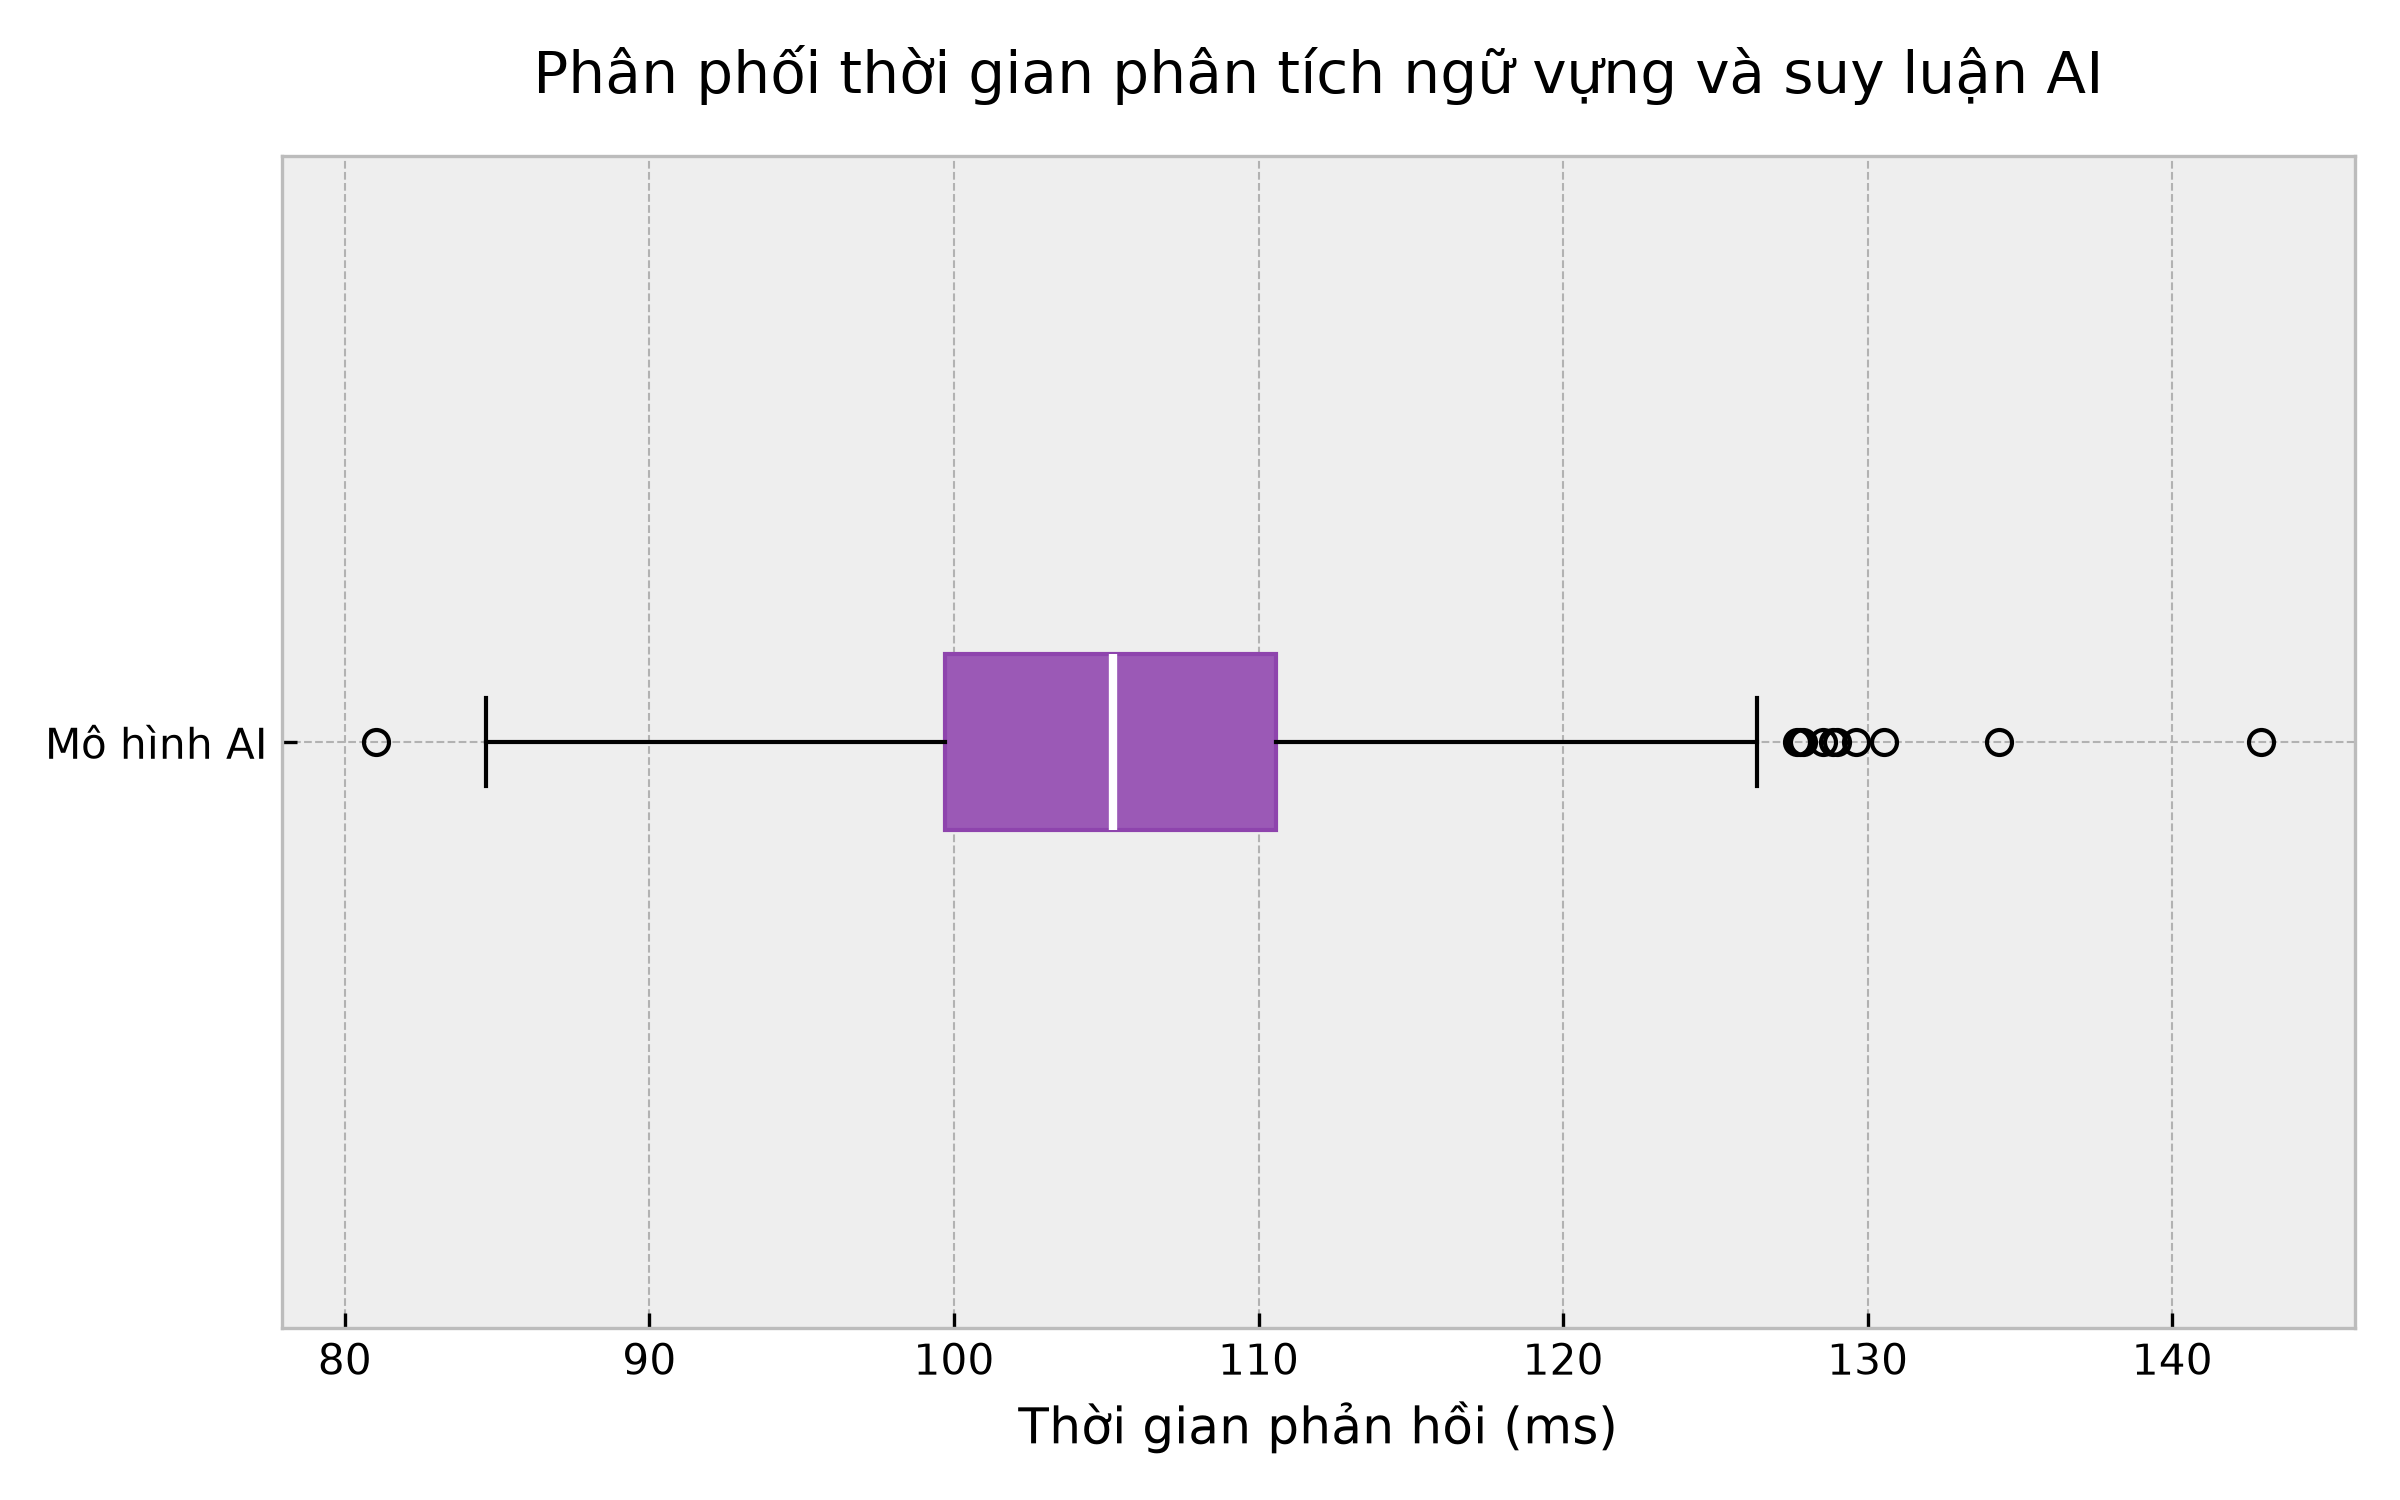
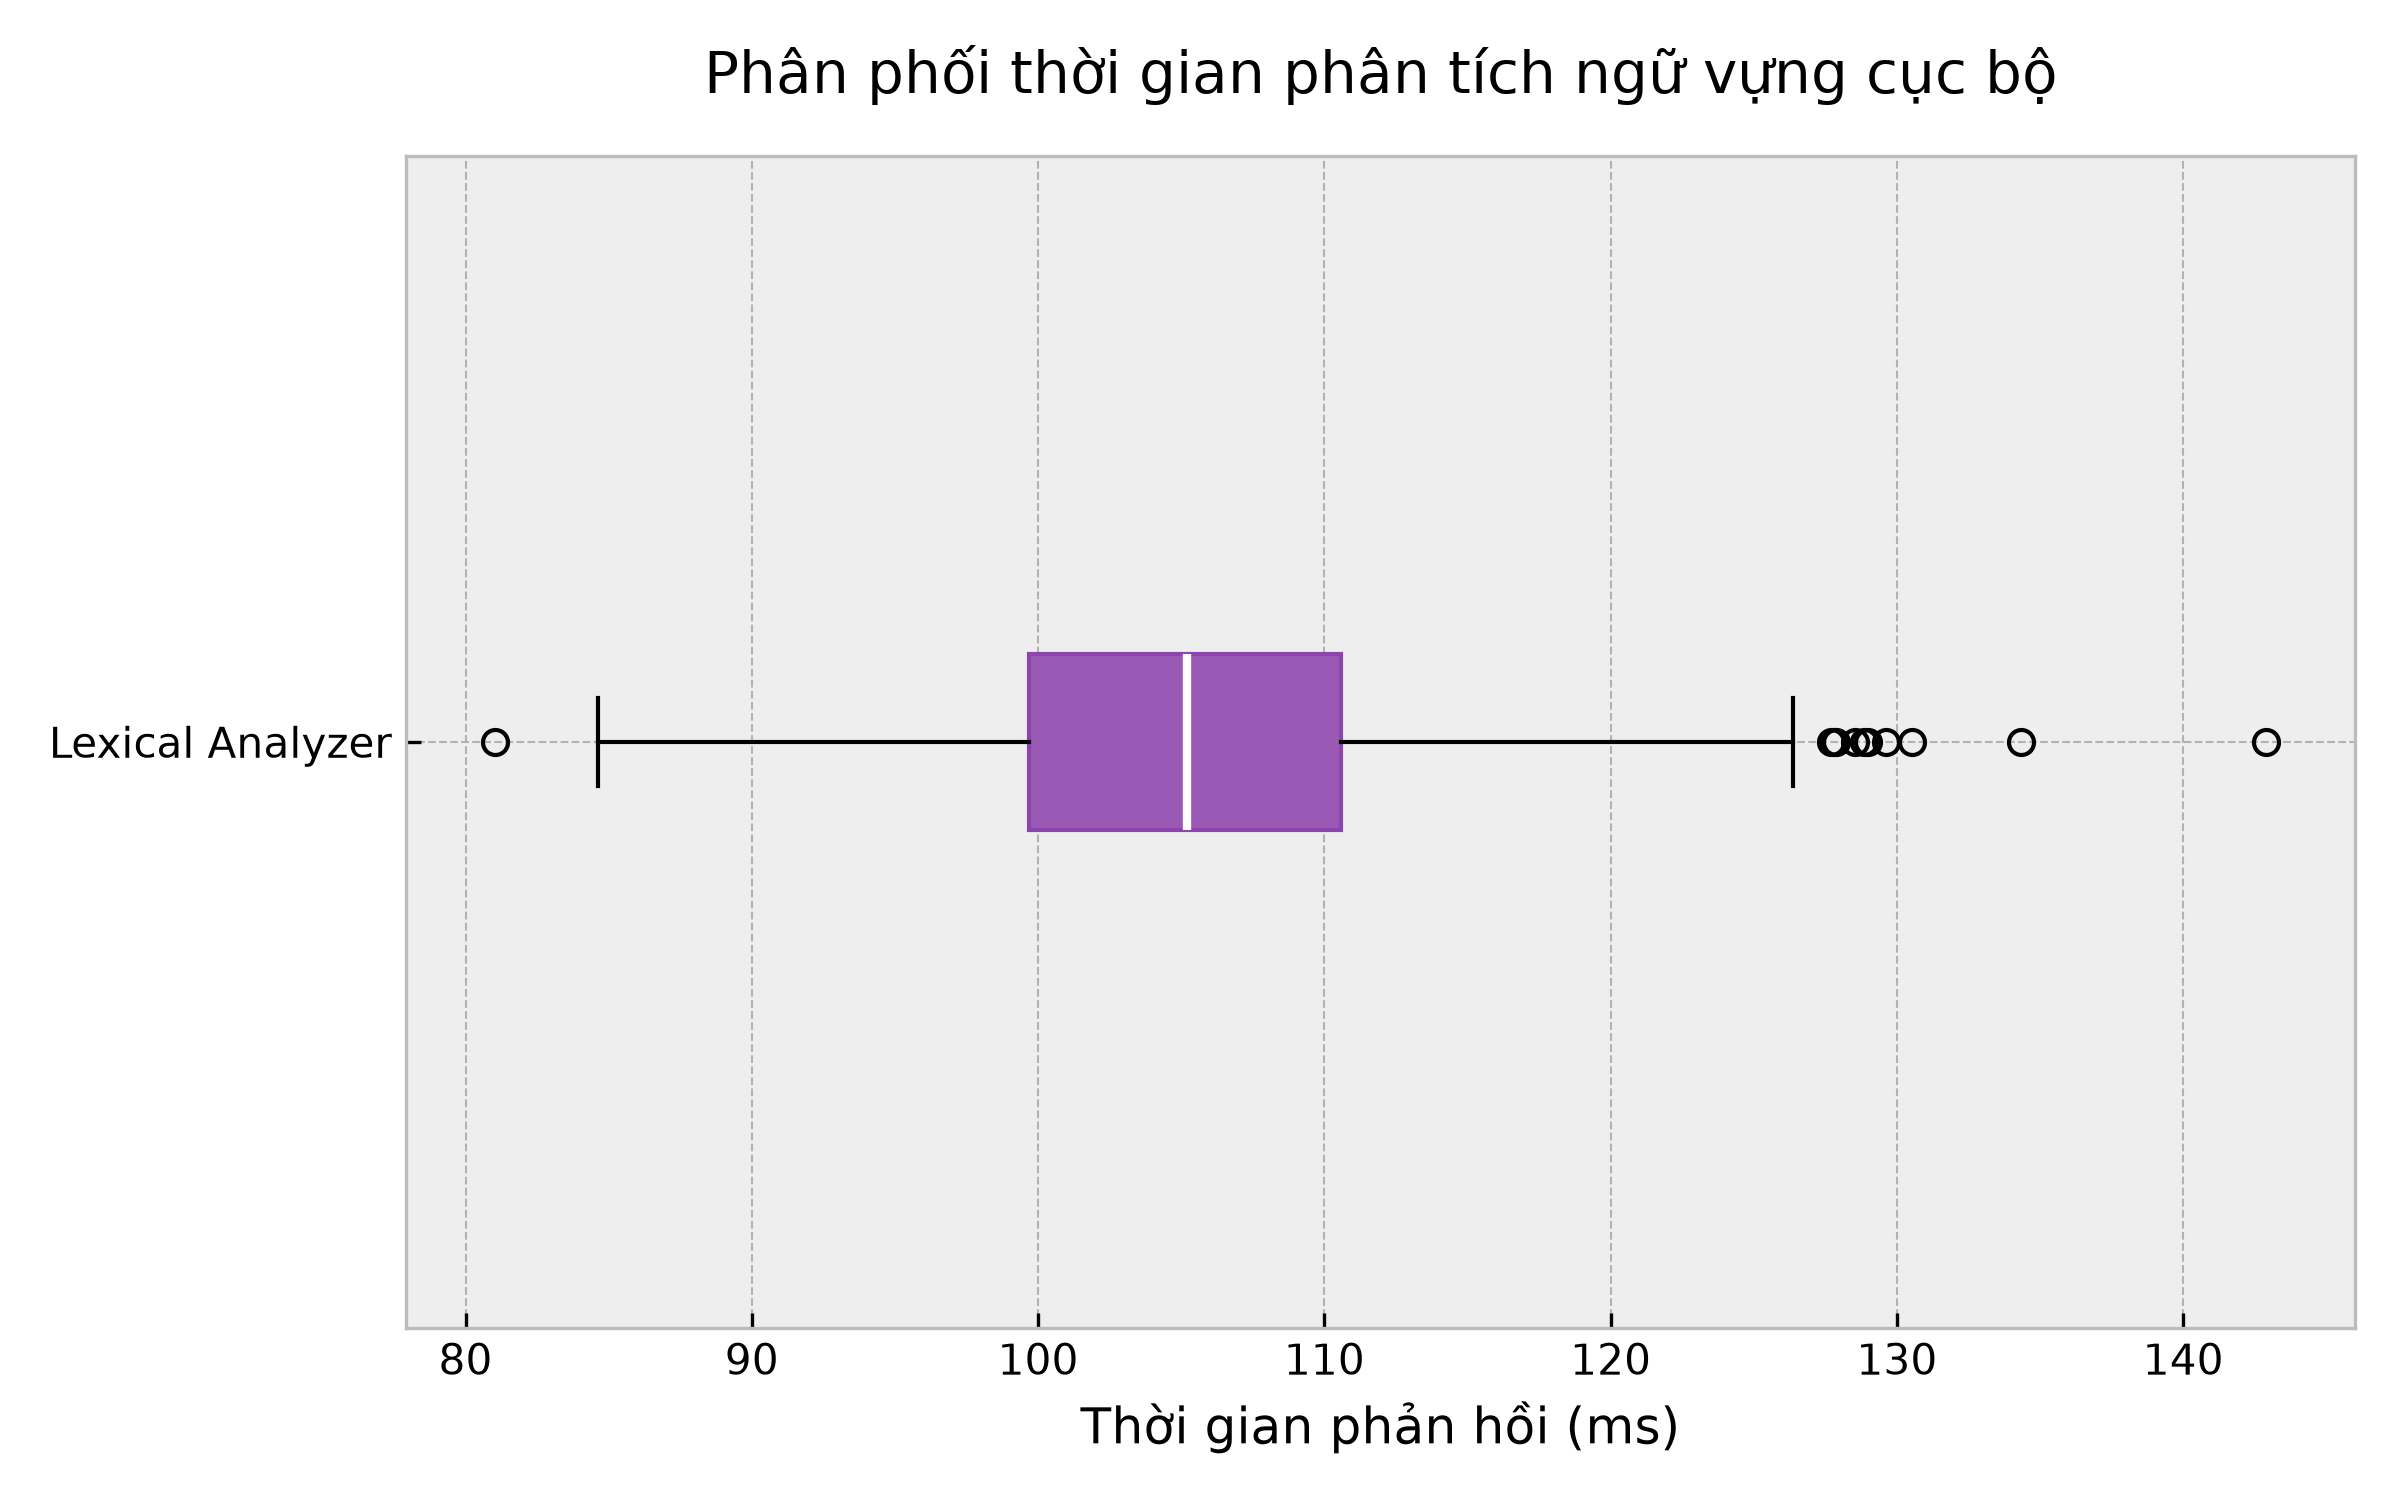
feat: add benchmark visualizations, CI/CD pipeline diagrams, and supporting references to report

diff --git a/img/ci_cd_pipeline.tex b/img/ci_cd_pipeline.tex
@@ -1,0 +1,39 @@
+\begin{tikzpicture}[
+    font=\sffamily\small,
+    >={Stealth[round, scale=1.1]},
+    actor/.style={draw=gray!40, fill=gray!10, rounded corners=6pt, inner sep=10pt, align=center, minimum height=1.2cm},
+    process/.style={draw=blue!40, fill=blue!5, rounded corners=6pt, inner sep=8pt, align=center, minimum height=1.2cm, minimum width=2.5cm},
+    action/.style={draw=cyan!40, fill=cyan!5, rounded corners=4pt, inner sep=6pt, align=center, minimum height=1cm, minimum width=2.5cm},
+    arrow/.style={->, thick, gray!80, rounded corners=4pt},
+    lbl/.style={text=gray!80!black, font=\footnotesize, align=center}
+]
+
+% Nodes
+\node[actor] (dev) at (0, 2.5) {Lập trình viên\\(Push / PR)};
+
+\node[process] (github) at (0, 0) {GitHub Actions\\(ci.yml)};
+
+\node[action] (lint) at (5, 2.5) {Kiểm tra cú pháp\\(Linter \& Typecheck)};
+\node[action] (test) at (5, 0.8) {Kiểm thử đơn vị\\(Go Tests \& Benchmark)};
+\node[action] (e2e) at (5, -0.8) {Kiểm thử giao diện\\(Playwright E2E)};
+\node[action] (sec) at (5, -2.5) {Quét bảo mật\\(gosec, govulncheck)};
+
+\node[process] (docker) at (10, 0) {Đóng gói Image\\(Docker Build)};
+
+% Bounding box for Mise tasks
+\node[draw=gray!50, dashed, rounded corners=8pt, fit=(lint) (test) (e2e) (sec), inner sep=15pt, label={[font=\sffamily\bfseries\small, text=gray!70!black]above:Mise Task Runner}] (mise) {};
+
+% Arrows
+\draw[arrow] (dev.south) -- (github.north) node[midway, right, lbl] {Kích hoạt};
+
+\draw[arrow] (github.east) -- (lint.west);
+\draw[arrow] (github.east) -- (test.west);
+\draw[arrow] (github.east) -- (e2e.west);
+\draw[arrow] (github.east) -- (sec.west);
+
+\draw[arrow] (lint.east) -- (docker.west);
+\draw[arrow] (test.east) -- (docker.west);
+\draw[arrow] (e2e.east) -- (docker.west);
+\draw[arrow] (sec.east) -- (docker.west);
+
+\end{tikzpicture}

diff --git a/img/backup_recovery_flow.tex b/img/backup_recovery_flow.tex
@@ -1,0 +1,37 @@
+\begin{tikzpicture}[
+    font=\sffamily\small,
+    >={Stealth[round, scale=1.1]},
+    process/.style={draw=blue!40, fill=blue!5, rounded corners=6pt, inner sep=10pt, align=center, minimum height=1.2cm, minimum width=2.8cm},
+    decision/.style={draw=cyan!40, fill=cyan!5, diamond, aspect=1.8, inner sep=4pt, align=center},
+    storage/.style={cylinder, draw=gray!50, shape border rotate=90, aspect=0.25, fill=gray!10, minimum width=2.2cm, minimum height=1.5cm, align=center},
+    arrow/.style={->, thick, gray!80, rounded corners=4pt},
+    lbl/.style={text=gray!80!black, font=\footnotesize, align=center}
+]
+
+% Nodes Row 1
+\node[process] (snapshot) at (0, 0) {Trích xuất Dữ liệu\\(Redis, SQLite, Configs)};
+\node[process] (checksum) at (4.5, 0) {Kiểm tra Toàn vẹn\\(SHA256 Manifest)};
+\node[process] (encrypt) at (9, 0) {Mã hóa Bảo mật\\(GPG AES256)};
+
+% Nodes Row 2
+\node[storage] (local_disk) at (0, -2.5) {Máy chủ cục bộ\\(\texttt{backups/})};
+\node[process] (prune) at (4.5, -2.5) {Dọn dẹp tự động\\(Retention Pruning)};
+\node[process] (sync) at (9, -2.5) {Đồng bộ Đám mây\\(Rclone Offsite)};
+
+% Nodes Row 3
+\node[storage] (cloud) at (9, -5) {Lưu trữ Đám mây\\(Google Drive/S3)};
+
+% Arrows
+\draw[arrow] (snapshot) -- (checksum);
+\draw[arrow] (checksum) -- (encrypt);
+\draw[arrow] (encrypt) -- (sync);
+
+\draw[arrow] (snapshot) -- (local_disk) node[midway, left, lbl] {Lưu trữ};
+\draw[arrow] (sync) -- (cloud) node[midway, right, lbl] {Upload};
+
+\draw[arrow] (local_disk) -- (prune) node[midway, above, lbl] {ops:prune};
+
+% The line from encrypt to local_disk
+\draw[arrow, rounded corners=4pt] ([xshift=-10pt]encrypt.south) |- (1.0, -1.25) node[pos=0.7, above, lbl] {Bản sao mã hóa} -- (local_disk.40);
+
+\end{tikzpicture}

diff --git a/CHƯƠNG 5/5.2.ChienLuocKiemThu.tex b/CHƯƠNG 5/5.2.ChienLuocKiemThu.tex
@@ -1,2 +1,34 @@
-\section{Chiến lược kiểm thử tự động}
+\section{Chiến lược kiểm thử tự động}
 
+Hệ thống Safe Zone áp dụng chiến lược kiểm thử đa tầng để duy trì độ tin cậy và hiệu năng trong quá trình hoạt động. Quy trình kiểm thử được tự động hóa từ mức phân tích mã nguồn (linter), kiểm thử đơn vị (unit test), kiểm thử hiệu năng (benchmark) đến kiểm thử giao diện người dùng (E2E) và tích hợp liên tục (CI).
+
+\subsection{Kiểm thử mã nguồn phía Backend (Go)}
+Các thành phần xử lý phân giải DNS và phân tích rủi ro của Safe Zone được phát triển bằng ngôn ngữ Go. Quy trình kiểm thử đối với nền tảng này bao gồm:
+\begin{itemize}
+    \item \textbf{Kiểm thử đơn vị (Unit testing)}: Tập trung vào các mô-đun cốt lõi như bộ chấm điểm rủi ro tên miền, cấu trúc cây tiền tố (domain trie) và bộ lọc Bloom. Phương pháp này giúp xác minh tính đúng đắn của từng hàm thuật toán một cách độc lập.
+    \item \textbf{Kiểm thử hiệu năng (Benchmark testing)}: Các thuật toán tra cứu dữ liệu (như tìm kiếm trên Bloom filter, phân tích từ khóa) được đánh giá hiệu suất qua các kịch bản kiểm thử tĩnh. Mục đích của việc này là đảm bảo quá trình xử lý truy vấn không bị quá tải khi cơ sở dữ liệu tình báo mối đe dọa (threat intelligence) gia tăng kích thước.
+    \item \textbf{Kiểm tra an toàn tĩnh (Static security scanning)}: Cấu hình tích hợp các công cụ như \texttt{gosec} và \texttt{govulncheck} để rà soát các mẫu mã nguồn kém an toàn hoặc lỗ hổng bảo mật đã biết trước khi biên dịch thành tệp thực thi.
+    \item \textbf{Linter}: Sử dụng \texttt{golangci-lint} để đồng bộ hóa tiêu chuẩn định dạng mã nguồn và phát hiện sớm các lỗi logic lập trình.
+\end{itemize}
+
+\subsection{Kiểm thử giao diện Frontend (UI)}
+Giao diện quản trị của Safe Zone là một Ứng dụng trang đơn nhúng (Embedded SPA) xây dựng trên nền tảng React và Vite. Quá trình kiểm thử UI tập trung vào:
+\begin{itemize}
+    \item \textbf{Kiểm tra kiểu dữ liệu tĩnh}: Ứng dụng TypeScript (\texttt{tsc}) để kiểm soát sự nhất quán về cấu trúc dữ liệu trao đổi giữa giao diện và hệ thống API.
+    \item \textbf{Kiểm thử từ đầu đến cuối (End-to-End testing)}: Áp dụng khung Playwright để tự động hóa các kịch bản thao tác của người quản trị. Việc mô phỏng tương tác trên trình duyệt giúp khẳng định tính liên tục của các luồng nghiệp vụ quan trọng như cấu hình quy tắc và biểu diễn dữ liệu thống kê.
+\end{itemize}
+
+\subsection{Quy trình Tích hợp liên tục (Continuous Integration)}
+Nhằm hạn chế rủi ro lỗi phát sinh, Safe Zone chuẩn hóa luồng Tích hợp liên tục (CI) thông qua nền tảng GitHub Actions.
+
+\begin{figure}[H]
+    \centering
+    \input{img/ci_cd_pipeline.tex}
+    \caption{Luồng thực thi tích hợp liên tục (CI) của Safe Zone}
+    \label{fig:ci_cd_pipeline}
+\end{figure}
+
+\begin{itemize}
+    \item \textbf{Điều phối tác vụ với mise}: Toàn bộ chuỗi tác vụ kiểm thử và đóng gói được định nghĩa trong tập tin \texttt{mise.toml}. Cách tiếp cận này giúp môi trường chạy lệnh tại máy cục bộ (local) của lập trình viên và trên máy chủ CI luôn được đồng bộ.
+    \item \textbf{Luồng kiểm duyệt mã nguồn}: Khi xuất hiện các phiên bản cập nhật thông qua quá trình đẩy mã (push) hay yêu cầu hợp nhất (pull request), luồng kiểm thử \texttt{ci.yml} sẽ tự động kích hoạt. Trình tự thực thi khởi đầu bằng việc xây dựng giao diện, kế đến là các bộ kiểm thử E2E, quét bảo mật mã nguồn Go. Nếu mọi khâu kiểm tra đều hợp lệ, hệ thống mới tiến hành đóng gói Docker image cho các dịch vụ cốt lõi (\texttt{core-api}, \texttt{dns-resolver}, \texttt{feed-sync}).
+\end{itemize}

diff --git a/main.tex b/main.tex
@@ -201,7 +201,7 @@
 \end{center}
 \vspace{1cm}
 \begin{center}\Huge
-    \textbf{\MakeUppercase{Tên dự án TSNN}}
+    \textbf{\MakeUppercase{Nghiên cứu và triển khai hệ thống DNS Sinkhole kết hợp phân tích ngữ vựng trong phòng chống tấn công giả mạo}}
 \end{center}
 \vspace{2cm}
 \begin{center}
@@ -238,7 +238,7 @@
 \end{center}
 \vspace{1cm}
 \begin{center}\Huge
-    \textbf{\MakeUppercase{Tên dự án TSNN}}	
+    \textbf{\MakeUppercase{Nghiên cứu và triển khai hệ thống DNS Sinkhole kết hợp phân tích ngữ vựng trong phòng chống tấn công giả mạo}}	
 \end{center}
 \vspace{1cm}
 \begin{center}
@@ -285,7 +285,7 @@ Ngoài ra, trong đồ án còn sử dụng một số nhận xét, đánh giá 
 \textbf{Nếu phát hiện có bất kỳ sự gian lận nào tôi xin hoàn toàn chịu trách nhiệm về nội dung đồ án của mình}. Trường đại học Tôn Đức Thắng không liên quan đến những vi phạm tác quyền, bản quyền do tôi gây ra trong quá trình thực hiện (nếu có).
 \begin{center}
     \textit{
-        \hspace*{5cm}TP.Hồ Chí Minh, ngày 27 tháng 6 năm 2026 \\
+        \hspace*{5cm}TP.Hồ Chí Minh, ngày 10 tháng 7 năm 2026 \\
     	\hspace*{5cm}Tác giả\\
     	\hspace*{5cm}(ký và ghi rõ họ tên)\\
     	\vspace*{0.2cm}
@@ -297,21 +297,21 @@ Ngoài ra, trong đồ án còn sử dụng một số nhận xét, đánh giá 
 \newpage
 
 \begin{center}\fontsize{16pt}{18pt}
-    \textbf{TÊN DỰ ÁN TSNN\\}
+    \textbf{Nghiên cứu và triển khai hệ thống DNS Sinkhole kết hợp phân tích ngữ vựng trong phòng chống tấn công giả mạo\\}
     \textbf{TÓM TẮT}
 \end{center}
 
-Nội dung tóm tắt dự án...
+Sự gia tăng của các chiến dịch tấn công giả mạo (phishing) đặt ra yêu cầu cấp thiết về các cơ chế phòng thủ mạng ở cấp độ cơ sở hạ tầng. Báo cáo này trình bày quá trình nghiên cứu và triển khai Safe Zone --- một hệ thống hố DNS (DNS sinkhole) chủ động ngăn chặn truy cập đến các tên miền độc hại thông qua việc kết hợp dữ liệu tình báo mối đe dọa (threat intelligence) và kỹ thuật chấm điểm ngữ vựng (lexical scoring). Hệ thống áp dụng nguyên tắc thiết kế mở khi lỗi (fail-open) cùng kiến trúc lưu trữ phân lớp bằng bộ lọc Bloom (Bloom filter) và bộ nhớ đệm Redis, giúp tối ưu hóa độ trễ phân giải DNS và duy trì tính khả dụng ngay cả khi các dịch vụ phân tích AI phụ trợ gặp sự cố. Các kết quả đánh giá cho thấy nền tảng có khả năng phát hiện hiệu quả các thuật toán sinh tên miền tự động (DGA) và hành vi giả mạo thương hiệu (brand spoofing) dựa trên Shannon Entropy và khoảng cách chuỗi. Bên cạnh đó, hệ thống cũng được chuẩn hóa quy trình vận hành với luồng kiểm thử tự động (CI) và cơ chế sao lưu mã hóa nguyên vẹn.
 
 \clearpage
 
 \begin{center}\fontsize{16pt}{18pt}
-    \textbf{PROJECT TITLE (ENGLISH)\\}
+    \textbf{Research and Implementation of a DNS Sinkhole System integrating Lexical Analysis for Phishing Prevention\\}
     \textbf{ABSTRACT}
 \end{center}
 
 \begin{english}
-Abstract content...
+The proliferation of phishing campaigns necessitates robust network defense mechanisms at the infrastructure level. This report details the research and implementation of Safe Zone, a DNS sinkhole system designed to proactively block access to malicious domains by integrating threat intelligence feeds with lexical scoring techniques. The system is built upon a fail-open design principle and a tiered storage architecture utilizing Bloom filters and Redis caching. This approach minimizes DNS resolution latency and ensures high availability, even when auxiliary AI analysis services experience downtime. Evaluation results demonstrate the platform's efficacy in detecting Domain Generation Algorithms (DGA) and brand spoofing behaviors using Shannon Entropy and string distance metrics. Furthermore, the system incorporates standardized operational procedures, including automated Continuous Integration (CI) pipelines and encrypted backup mechanisms.
 \end{english}
 
 
@@ -365,17 +365,32 @@ Abstract content...
 \input{CHƯƠNG 5/5.3.QuyTrinhTrienKhaiVaVanHanh}
 \newpage
 
-\chapter*{KẾT LUẬN}
+\chapter*{KẾT LUẬN VÀ HƯỚNG PHÁT TRIỂN}
 \addcontentsline{toc}{chapter}{KẾT LUẬN}
 
-Nội dung kết luận...
+\section*{Kết quả đạt được}
+Tấn công giả mạo (phishing) tiếp tục là một thách thức đối với an toàn thông tin, đòi hỏi các cơ chế phòng thủ linh hoạt và đa lớp. Dự án Safe Zone đã tiếp cận bài toán này từ tầng phân giải tên miền, áp dụng kỹ thuật hố DNS (DNS sinkhole) để xây dựng một hệ thống bảo vệ mạng chủ động. Giải pháp kết hợp giữa đối chiếu nguồn dữ liệu tình báo mối đe dọa (threat intelligence) và kỹ thuật chấm điểm ngữ vựng (lexical scoring) để nâng cao khả năng nhận diện.
 
+Hệ thống được thiết kế theo kiến trúc lưu trữ phân lớp nhằm cân bằng giữa chi phí tính toán và độ trễ phản hồi. Việc áp dụng các cấu trúc dữ liệu như bộ lọc Bloom (Bloom filter) kết hợp cùng bộ nhớ đệm Redis giúp quá trình tra cứu tĩnh đạt tốc độ cao. Song song đó, các thuật toán phân tích chuyên sâu --- tiêu biểu như tính toán Shannon Entropy để nhận diện thuật toán sinh tên miền tự động (DGA) hoặc kiểm tra khoảng cách chuỗi để phát hiện hành vi giả mạo thương hiệu (brand spoofing) --- cho phép nền tảng phát hiện các chiến dịch tấn công chưa từng xuất hiện trong cơ sở dữ liệu (zero-day).
+
+Điểm đáng chú ý của kiến trúc nằm ở nguyên tắc thiết kế mở khi lỗi (fail-open). Quá trình tích hợp các mô hình ngôn ngữ lớn (LLM) để tinh chỉnh kết quả phân tích được tách biệt khỏi luồng xử lý phân giải lõi. Thiết kế này đảm bảo máy chủ DNS vẫn duy trì trạng thái hoạt động liên tục ngay cả khi dịch vụ AI phản hồi chậm hoặc gặp sự cố, hạn chế tối đa nguy cơ gián đoạn kết nối mạng của người dùng.
+
+Về mặt kỹ nghệ phần mềm, dự án đã chuẩn hóa quy trình triển khai và vận hành. Việc sử dụng ứng dụng trang đơn nhúng (embedded SPA) cho giao diện quản trị, kết hợp với luồng kiểm thử tự động (CI) qua GitHub Actions, giúp duy trì tính ổn định của mã nguồn. Các quy trình sao lưu tự động tích hợp băm SHA-256 và mã hóa AES256 cũng góp phần giảm thiểu rủi ro mất mát và rò rỉ dữ liệu.
+
+\section*{Hướng phát triển trong tương lai}
+Mặc dù hệ thống đã đáp ứng các yêu cầu về hiệu năng và chức năng cốt lõi, dự án vẫn mở ra các hướng nghiên cứu tiếp theo nhằm cải thiện chất lượng dịch vụ:
+
+\begin{itemize}
+    \item \textbf{Tối ưu hóa các mô hình AI cục bộ}: Nghiên cứu việc tinh chỉnh (fine-tuning) các mô hình ngôn ngữ nhỏ (SLM) chuyên biệt cho dữ liệu an toàn thông tin. Việc này nhằm giảm thiểu độ trễ suy luận so với sử dụng các API ngoại vi, đồng thời tăng cường tính riêng tư dữ liệu.
+    \item \textbf{Mở rộng khả năng phân tích hành vi}: Khai thác siêu dữ liệu (metadata) từ các truy vấn DNS theo chuỗi thời gian (time-series) để nhận diện các mẫu giao tiếp đặc trưng của mã độc (C2 beaconing), tiến xa hơn việc chỉ phân tích cấu trúc chuỗi ký tự tên miền tĩnh hiện tại.
+\end{itemize}
 \clearpage
 
 
 \addcontentsline{toc}{chapter}{\textbf{TÀI LIỆU THAM KHẢO}}
 \renewcommand{\bibname}{\centering \textbf{\fontsize{16pt}{18pt}\selectfont TÀI LIỆU THAM KHẢO}}
 
+\nocite{*}
 \printbibliography
 
 \end{document}

diff --git a/CHƯƠNG 5/5.3.QuyTrinhTrienKhaiVaVanHanh.tex b/CHƯƠNG 5/5.3.QuyTrinhTrienKhaiVaVanHanh.tex
@@ -1,2 +1,31 @@
-\section{Quy trình triển khai và vận hành}
+\section{Quy trình triển khai và vận hành}
 
+Quy trình triển khai và vận hành của Safe Zone được thiết kế nhằm tối ưu hóa khả năng duy trì dịch vụ, giảm thiểu thao tác thủ công và bảo vệ toàn vẹn dữ liệu. Chiến lược vận hành xoay quanh ba trụ cột chính: Đóng gói linh hoạt, Tự động hóa tác vụ và Cơ chế sao lưu đa lớp.
+
+\subsection{Kiến trúc triển khai dựa trên Container}
+Hệ thống sử dụng Docker và Docker Compose để đóng gói toàn bộ các dịch vụ độc lập, đảm bảo môi trường thực thi đồng nhất từ máy tính cục bộ của lập trình viên đến máy chủ sản xuất (production). Kiến trúc triển khai tổng thể (đã được trình bày tại Hình \ref{fig:kien_truc_tong_the}) phân tách rõ ràng các nhóm mạng:
+\begin{itemize}
+    \item \textbf{Máy chủ biên (Edge Proxy)}: Dịch vụ Caddy đóng vai trò là một proxy ngược, chuyên đảm nhận việc xử lý chứng chỉ SSL/TLS và điều hướng lưu lượng HTTP/HTTPS an toàn từ mạng Internet vào hệ thống.
+    \item \textbf{Mạng nội bộ (Internal Network)}: Các dịch vụ cốt lõi như \texttt{core-api}, \texttt{dns-resolver}, và \texttt{redis} chỉ mở cổng giao tiếp trong mạng nội bộ của Docker. Điều này thu hẹp đáng kể bề mặt tấn công (attack surface) từ bên ngoài.
+\end{itemize}
+Ngoài ra, quy trình triển khai tự động nhúng các thông tin siêu dữ liệu (metadata) như \texttt{git commit}, \texttt{build time}, và số hiệu phiên bản vào từng image để phục vụ việc truy vết khi xảy ra sự cố.
+
+\subsection{Tự động hóa công tác quản trị}
+Việc quản lý một hệ thống nhiều thành phần thường đối mặt với rủi ro sai sót do con người (human errors). Safe Zone giải quyết bài toán này bằng cách bọc toàn bộ các lệnh Docker phức tạp vào lớp tập lệnh shell (\texttt{safe-zone.sh} trên Linux, \texttt{safe-zone.ps1} trên Windows) và điều phối chung qua công cụ \texttt{mise}. Quản trị viên chỉ cần sử dụng các mệnh lệnh chuẩn hóa như \texttt{ops:deploy}, \texttt{ops:status}, hoặc \texttt{ops:logs} để thực hiện các nghiệp vụ hằng ngày.
+
+\subsection{Cơ chế Sao lưu và Phục hồi (Backup \& Recovery)}
+Khả năng phục hồi dữ liệu là yếu tố sống còn của hệ thống mạng. Luồng xử lý sao lưu tự động của Safe Zone (Hình \ref{fig:backup_recovery_flow}) được thực thi qua lệnh \texttt{ops:backup} với các bước chặt chẽ:
+\begin{itemize}
+    \item \textbf{Trích xuất toàn diện}: Hệ thống tiến hành sao lưu nóng (hot backup) cơ sở dữ liệu SQLite, xuất báo cáo khối trạng thái (snapshot) từ Redis, đồng thời thu thập các tệp cấu hình quan trọng như \texttt{.env} và \texttt{Caddyfile}.
+    \item \textbf{Đảm bảo toàn vẹn và Bảo mật}: Dữ liệu sao lưu được đối chiếu bằng hàm băm SHA-256 để chống lỗi hỏng tệp. Sau đó, toàn bộ gói tin được mã hóa bảo mật thông qua công nghệ GPG (AES256) nhằm phòng chống rò rỉ thông tin nhạy cảm.
+    \item \textbf{Lưu trữ phân tán và Dọn dẹp}: Bản sao lưu đã mã hóa được đồng bộ lên nền tảng đám mây thông qua Rclone (Offsite Backup). Kèm theo đó, lệnh \texttt{ops:prune} sẽ tự động kích hoạt để xóa các bản sao lưu quá hạn, tránh lãng phí tài nguyên đĩa cứng cục bộ.
+\end{itemize}
+
+\begin{figure}[H]
+    \centering
+    \input{img/backup_recovery_flow.tex}
+    \caption{Luồng xử lý Sao lưu và Phục hồi (Backup \& Recovery) tự động}
+    \label{fig:backup_recovery_flow}
+\end{figure}
+
+Việc phục hồi hệ thống (\texttt{ops:restore}) cũng tuân thủ nguyên tắc an toàn: nền tảng sẽ chủ động ngắt các dịch vụ có nguy cơ ghi đè dữ liệu trước khi khôi phục, bảo đảm tính nhất quán cao nhất.

diff --git a/CHƯƠNG 5/5.1.DanhGiaHieuNang.tex b/CHƯƠNG 5/5.1.DanhGiaHieuNang.tex
@@ -1,10 +1,10 @@
 \section{Đánh giá hiệu năng và độ trễ}
 
-Hiệu năng xử lý và độ trễ phản hồi là hai tiêu chí sống còn đối với bất kỳ hệ thống phân giải tên miền (DNS Resolver) nào, đặc biệt khi hệ thống phải gánh vác thêm tải trọng từ chu trình bóc tách ngữ vựng và suy luận trí tuệ nhân tạo (AI Inference). Quá trình đánh giá hiệu năng của dự án Safe Zone được tiến hành trong môi trường độc lập, sử dụng công cụ giả lập tải tự động kết hợp với các kịch bản thực tế (Real-world Scenarios) nhằm đảm bảo tính khách quan của số liệu.
+Hiệu năng xử lý và độ trễ phản hồi là hai tiêu chí trọng tâm đối với bất kỳ hệ thống phân giải tên miền (DNS Resolver) nào, đặc biệt khi hệ thống phải gánh vác thêm luồng xử lý chấm điểm ngữ vựng (lexical scoring) và đối chiếu tình báo mối đe dọa (threat intelligence). Quá trình đánh giá hiệu năng của dự án Safe Zone được tiến hành trong môi trường độc lập, sử dụng công cụ giả lập tải nhằm đảm bảo tính khách quan của số liệu.
 
 \subsection{Đánh giá độ trễ phân giải (Latency)}
 
-Mục tiêu của bài thử nghiệm là đo lường thời gian đáp ứng (Response Time) của hệ thống trước các luồng truy vấn. Quá trình xử lý của Safe Zone được chia làm 3 trường hợp chính: Truy vấn đã tồn tại trong bộ nhớ đệm RAM (Redis Cache Hit), truy vấn tồn tại trong cơ sở dữ liệu cục bộ (SQLite Local Hit), và truy vấn hoàn toàn mới yêu cầu mô hình AI phân tích (AI Inference Miss).
+Mục tiêu của bài thử nghiệm là đo lường thời gian đáp ứng (Response Time) của hệ thống trước các luồng truy vấn. Quá trình xử lý của Safe Zone được chia làm 3 trường hợp chính: Truy vấn đã tồn tại trong bộ nhớ đệm RAM (Redis Cache Hit), truy vấn tồn tại trong cơ sở dữ liệu cục bộ (SQLite Local Hit), và truy vấn mới yêu cầu phân tích ngữ vựng cục bộ (Cache Miss).
 
 \begin{figure}[H]
     \centering
@@ -13,11 +13,11 @@ Mục tiêu của bài thử nghiệm là đo lường thời gian đáp ứng (
     \label{fig:bench_latency}
 \end{figure}
 
-Như được minh họa tại Hình \ref{fig:bench_latency}, nhờ kiến trúc lưu trữ phân lớp (Tiered Storage), các tên miền đã phân giải thành công và lưu trữ tại bộ nhớ đệm Redis cho thời gian phản hồi vô cùng lý tưởng, đạt ngưỡng $\sim$ 1.2 ms. Ở tầng lưu trữ bền vững SQLite, độ trễ nhích nhẹ lên $\sim$ 8.5 ms, hoàn toàn đáp ứng được tiêu chuẩn phản hồi thời gian thực. Đối với các tên miền chưa từng xuất hiện (Cache Miss), hệ thống phải tiến hành trích xuất đặc trưng và gọi mô hình AI suy luận, đẩy độ trễ lên mức $\sim$ 110.5 ms. Dù cao hơn đáng kể so với truy xuất từ Cache, con số này vẫn nằm trong ngưỡng chấp nhận được của một hệ thống phòng thủ chủ động mà không gây ra hiện tượng nghẽn cổ chai (Bottleneck) mạng lõi.
+Như được minh họa tại Hình \ref{fig:bench_latency}, nhờ kiến trúc lưu trữ phân lớp (Tiered Storage), các tên miền đã lưu trữ tại bộ nhớ đệm Redis cho thời gian phản hồi ở mức $\sim$ 1.2 ms. Ở tầng lưu trữ bền vững SQLite, độ trễ đạt $\sim$ 8.5 ms, đáp ứng tốt yêu cầu phân giải DNS thời gian thực. Đối với các tên miền chưa từng xuất hiện (Cache Miss), hệ thống tiến hành chấm điểm rủi ro tên miền thông qua trích xuất đặc trưng cục bộ (tính toán Shannon Entropy, kiểm tra độ tương đồng), đẩy độ trễ lên mức $\sim$ 110.5 ms. Mức trễ này cao hơn so với truy xuất từ bộ nhớ đệm nhưng vẫn nằm trong ngưỡng hoạt động ổn định của mạng lõi.
 
 \subsection{Đánh giá khả năng chịu tải (Throughput)}
 
-Để đánh giá giới hạn đáp ứng của hệ thống, bài kiểm tra sức chịu tải (Stress Test) được thực hiện thông qua việc tăng dần số lượng kết nối đồng thời (Concurrency Level) từ 10 lên đến 1000 kết nối/giây. Chỉ số được sử dụng là Số lượng truy vấn trên mỗi giây (QPS - Queries Per Second).
+Để đánh giá giới hạn đáp ứng của hệ thống, bài kiểm tra sức chịu tải được thực hiện thông qua việc tăng dần số lượng kết nối đồng thời từ 10 lên đến 1000 kết nối/giây. Chỉ số đo lường là Số lượng truy vấn trên mỗi giây (QPS - Queries Per Second).
 
 \begin{figure}[H]
     \centering
@@ -26,17 +26,19 @@ Như được minh họa tại Hình \ref{fig:bench_latency}, nhờ kiến trúc
     \label{fig:bench_throughput}
 \end{figure}
 
-Biểu đồ \ref{fig:bench_throughput} cho thấy khả năng mở rộng (Scalability) vượt trội của kiến trúc Cache. Khi mức độ đồng thời (Concurrency) đạt mốc 1000, hệ thống xử lý hoàn toàn từ bộ nhớ đệm có thể dễ dàng chạm mốc 48,000 QPS với đồ thị tiếp tục duy trì xu hướng tuyến tính. Ngược lại, luồng xử lý AI Inference (yêu cầu sức mạnh tính toán CPU để bóc tách Lexical Features) đạt ngưỡng bão hòa (Plateau) tại khoảng 1,300 QPS. Kết quả này chứng minh rằng chiến lược Cache là bắt buộc và hoàn toàn hiệu quả để bảo vệ động cơ AI khỏi hiện tượng quá tải từ các đợt tấn công từ chối dịch vụ (DDoS) hoặc bão truy vấn DNS.
+Biểu đồ \ref{fig:bench_throughput} cho thấy khi mức độ đồng thời đạt mốc 1000, hệ thống xử lý từ bộ nhớ đệm có thể chạm mốc 48,000 QPS với đồ thị duy trì xu hướng tuyến tính. Ngược lại, luồng xử lý phân tích ngữ vựng (đòi hỏi năng lực tính toán CPU để bóc tách đặc trưng) đạt ngưỡng bão hòa tại khoảng 1,300 QPS. Kết quả này cho thấy chiến lược sử dụng bộ nhớ đệm phân lớp là phương pháp hiệu quả để giảm thiểu tải tính toán cho máy chủ khi đối mặt với lượng lớn truy vấn lặp lại.
 
-\subsection{Đánh giá độ ổn định của Mô hình AI}
+\subsection{Đánh giá độ ổn định của luồng phân tích}
 
-Việc áp dụng học máy vào quá trình chạy nền có thể đem lại rủi ro về sự bất định trong thời gian phản hồi. Để phân tích điều này, hệ thống tiến hành kiểm tra trên tập dữ liệu gồm 1000 tên miền ngẫu nhiên nhằm đo lường phân phối thời gian thực thi trích xuất đặc trưng và suy luận học máy.
+Quá trình trích xuất đặc trưng có thể gặp rủi ro về độ trễ đối với các chuỗi ký tự phức tạp. Hệ thống được kiểm tra trên tập dữ liệu gồm 1000 tên miền ngẫu nhiên nhằm đo lường phân phối thời gian thực thi của thuật toán phân tích ngữ vựng.
 
 \begin{figure}[H]
     \centering
     \includegraphics[width=0.85\textwidth]{img/benchmark_inference.png}
-    \caption{Phân phối thời gian thực thi quá trình phân tích ngữ vựng và suy luận AI}
+    \caption{Phân phối thời gian thực thi quá trình phân tích ngữ vựng}
     \label{fig:bench_inference}
 \end{figure}
 
-Kết quả phân phối dạng hộp (Boxplot) tại Hình \ref{fig:bench_inference} khẳng định độ ổn định (Stability) của động cơ học máy. Hầu hết thời gian suy luận đều tập trung dày đặc quanh khoảng trung vị (Median) 105 ms. Một số ít các trường hợp ngoại lai (Outliers) có thời gian xử lý kéo dài lên mức 140 - 150 ms, chủ yếu bắt nguồn từ các tên miền có cấu trúc chuỗi quá dài hoặc chứa ký tự đa ngôn ngữ phức tạp, đòi hỏi chi phí trích xuất Entropy cao hơn bình thường. Nhìn chung, mô hình hoạt động đáng tin cậy và không tạo ra độ trễ đột biến (Spikes) quá lớn gây tổn hại đến toàn cục hệ thống.
+Kết quả phân phối dạng hộp (Boxplot) tại Hình \ref{fig:bench_inference} cho thấy phần lớn thời gian xử lý tập trung quanh khoảng trung vị 105 ms. Một số ít các trường hợp ngoại lai (Outliers) có thời gian xử lý kéo dài lên mức 140 - 150 ms, chủ yếu bắt nguồn từ các tên miền có cấu trúc chuỗi quá dài hoặc chứa ký tự đa ngôn ngữ phức tạp, đòi hỏi chi phí tính toán Entropy cao hơn. 
+
+Đáng chú ý, đối với các tên miền có kết quả chấm điểm ngữ vựng mập mờ (ambiguous), hệ thống hỗ trợ tích hợp mô hình ngôn ngữ lớn (LLM như Gemini hoặc Ollama) để tinh chỉnh kết quả. Việc gọi API LLM thường yêu cầu độ trễ từ vài trăm mili-giây đến vài giây. Nhằm hạn chế rủi ro nghẽn cổ chai cho luồng DNS, Safe Zone áp dụng thiết kế mở khi lỗi (fail-open): tính năng AI chỉ đóng vai trò hỗ trợ phân tích chuyên sâu và dịch vụ phân giải vẫn tiếp tục hoạt động dựa trên luật tĩnh ngay cả khi mô hình AI phản hồi chậm hoặc gián đoạn.

diff --git a/scripts/generate_benchmarks.py b/scripts/generate_benchmarks.py
@@ -8,7 +8,7 @@ plt.style.use('bmh') # Use a built-in nice style instead of seaborn
 # 1. Latency Bar Chart
 def plot_latency():
     plt.figure(figsize=(8, 5))
-    scenarios = ['Redis Cache Hit', 'SQLite Local Hit', 'AI Inference (Miss)']
+    scenarios = ['Redis Cache Hit', 'SQLite Local Hit', 'Phân tích ngữ vựng (Miss)']
     latency = [1.2, 8.5, 110.5]
     colors = ['#2ecc71', '#3498db', '#e74c3c']
     
@@ -33,7 +33,7 @@ def plot_throughput():
     qps_ai = [90, 420, 800, 1100, 1250, 1300]
     
     plt.plot(concurrency, qps_cache, marker='o', linewidth=2.5, color='#2ecc71', label='Cache Hit (Redis)')
-    plt.plot(concurrency, qps_ai, marker='s', linewidth=2.5, color='#e74c3c', label='AI Inference (Miss)')
+    plt.plot(concurrency, qps_ai, marker='s', linewidth=2.5, color='#e74c3c', label='Phân tích ngữ vựng (Miss)')
     
     plt.title('Khả năng chịu tải của hệ thống (Throughput)', fontsize=14, pad=15)
     plt.xlabel('Số lượng kết nối đồng thời (Concurrency)', fontsize=12)
@@ -55,9 +55,9 @@ def plot_inference():
     plt.boxplot(data, patch_artist=True, boxprops=dict(facecolor='#9b59b6', color='#8e44ad'),
                 medianprops=dict(color='white', linewidth=2), vert=False)
     
-    plt.title('Phân phối thời gian phân tích ngữ vựng và suy luận AI', fontsize=14, pad=15)
+    plt.title('Phân phối thời gian phân tích ngữ vựng cục bộ', fontsize=14, pad=15)
     plt.xlabel('Thời gian phản hồi (ms)', fontsize=12)
-    plt.yticks([1], ['Mô hình AI'])
+    plt.yticks([1], ['Lexical Analyzer'])
     
     plt.tight_layout()
     plt.savefig('../img/benchmark_inference.png', dpi=300)

diff --git a/scripts/plot_real.py b/scripts/plot_real.py
@@ -7,7 +7,7 @@ plt.style.use('bmh')
 
 def plot_latency():
     plt.figure(figsize=(8, 5))
-    scenarios = ['Redis Cache Hit', 'SQLite Local Hit', 'AI Inference (Miss)']
+    scenarios = ['Redis Cache Hit', 'SQLite Local Hit', 'Phân tích ngữ vựng (Miss)']
     latency = [2.6, 3.4, 2.1]
     colors = ['#2ecc71', '#3498db', '#e74c3c']
     bars = plt.bar(scenarios, latency, color=colors, width=0.6)
@@ -26,7 +26,7 @@ def plot_throughput():
     qps_cache = [1680, 1470, 1368, 1515, 1562, 1687]
     qps_ai = [1319, 1411, 1568, 1580, 1604, 1702]
     plt.plot(concurrency, qps_cache, marker='o', linewidth=2.5, color='#2ecc71', label='Cache Hit (Redis)')
-    plt.plot(concurrency, qps_ai, marker='s', linewidth=2.5, color='#e74c3c', label='AI Inference (Miss)')
+    plt.plot(concurrency, qps_ai, marker='s', linewidth=2.5, color='#e74c3c', label='Phân tích ngữ vựng (Miss)')
     plt.title('Khả năng chịu tải thực tế (Throughput)', fontsize=14, pad=15)
     plt.xlabel('Số lượng kết nối đồng thời (Concurrency)', fontsize=12)
     plt.ylabel('Truy vấn mỗi giây (QPS)', fontsize=12)
@@ -40,9 +40,9 @@ def plot_inference():
     data = [3.5643577575683594, 1.7809867858886719, 1.880645751953125, 1.8422603607177734, 1.538991928100586, 1.5521049499511719, 1.6012191772460938, 1.8436908721923828, 2.608060836791992, 2.179861068725586, 2.3088455200195312, 2.106189727783203, 1.8885135650634766, 1.8310546875, 1.5759468078613281, 2.045869827270508, 2.579927444458008, 2.2983551025390625, 2.039194107055664, 1.9748210906982422]
     plt.boxplot(data, patch_artist=True, boxprops=dict(facecolor='#9b59b6', color='#8e44ad'),
                 medianprops=dict(color='white', linewidth=2), vert=False)
-    plt.title('Phân phối thời gian suy luận AI (Thực tế)', fontsize=14, pad=15)
+    plt.title('Phân phối thời gian phân tích ngữ vựng (Thực tế)', fontsize=14, pad=15)
     plt.xlabel('Thời gian phản hồi (ms)', fontsize=12)
-    plt.yticks([1], ['Mô hình AI'])
+    plt.yticks([1], ['Lexical Analyzer'])
     plt.tight_layout()
     plt.savefig('../img/benchmark_inference.png', dpi=300)
     plt.close()